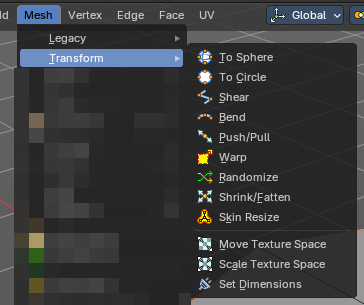
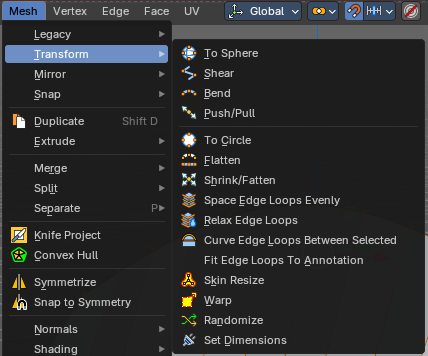
Docs 2.0: Mesh Transform menu for 5.4 (loop tools, Flatten, Fit to Annotation)
- New: Flatten, Space Edge Loops Evenly, Relax Edge Loops, Curve Edge Loops
  Between Selected, Fit Edge Loops To Annotation, each with its panel
- Sections in the 5.4 menu order; new menu picture
- Move/Scale Texture Space removed here (Object mode only now, documented there)
- To Circle panel heading fixed (said To Sphere)
- version 5.3

Claude-Session: https://claude.ai/code/session_01TZ3cKPLjkkQu7A5AvvLPrB

diff --git a/docs2/content/editors/3d-viewport/mesh/edit/header.md b/docs2/content/editors/3d-viewport/mesh/edit/header.md
@@ -1358,35 +1358,6 @@ The proportional falloff gets calculated for connected parts only.
 
 The proportional falloff gets calculated in the screen space. Depth doesn't play a role. When it's in the radius, then it gets calculated.
 
-### To Circle
-
-Transforms selected vertices into a circular arrangement.  
-Useful for reshaping loops, aligning geometry, or creating radial structures with precision.
-
-#### Usage
-
-![Usage](/docs2/images/editors/3d-viewport/header/mesh-edit-mode-mesh-menu/usage-3.png)
-
-Select the loop of mesh geometry, activate the tool. In the Last Operator panel, you can then adjust properties after the operation.
-
-#### Adjust Last Operation - To Sphere
-
-![Last Operator To Sphere](/docs2/images/editors/3d-viewport/header/mesh-edit-mode-mesh-menu/last-operator-to-sphere.png)
-
-Change the settings of **To Sphere** right after you use it, in the Adjust Last Operation panel at the bottom left of the editor.
-
-
-| Entry | What it does |
-| ------------------- | ------------------------------------------------------------------------------------------------------------------------------------------------------------------------------------------------------------- |
-| Factor | Controls the strength of the circular transformation.   – **1.000**: full circle.   – **&lt; 1.000**: partial influence, blending with original shape. |
-| Method | Defines how the circle is calculated:   – **Best Fit**: fits a circle to the selection using least-squares approximation.   – Interior Fit: Moves vertices inward toward the center of the selection. |
-| Rotation | Applies a rotational offset to the resulting circle. |
-| Radius | Sets a fixed radius for the circle. |
-| Space Evenly | Distributes vertices evenly along the circle’s perimeter.   – Enabled: uniform spacing.   – Disabled: preserves original spacing. |
-| Flatten | Controls how much the selection is flattened onto a plane before circularization.   – **1.000**: full flattening.   – **0.000**: preserves original depth variation. |
-| Lock Axis (X, Y, Z) | Constrains transformation to specific axes. Useful for maintaining symmetry or aligning with existing geometry. |
-
-
 ### Shear
 
 Shear shears the selection.
@@ -1496,53 +1467,50 @@ The proportional falloff gets calculated for connected parts only.
 
 The proportional falloff gets calculated in the screen space. Depth doesn't play a role. When it's in the radius, then it gets calculated.
 
-### Warp
+### To Circle
 
-![Warp](/docs2/images/editors/3d-viewport/header/mesh-edit-mode-mesh-menu/warp.png)
+Transforms selected vertices into a circular arrangement.  
+Useful for reshaping loops, aligning geometry, or creating radial structures with precision.
 
-Warps a mesh selection between two defined points.
+#### Usage
 
-#### Adjust Last Operation - Warp
+![Usage](/docs2/images/editors/3d-viewport/header/mesh-edit-mode-mesh-menu/usage-3.png)
 
-Change the settings of **Warp** right after you use it, in the Adjust Last Operation panel at the bottom left of the editor.
+Select the loop of mesh geometry, activate the tool. In the Last Operator panel, you can then adjust properties after the operation.
 
-![Adjust Last Operation - Warp](/docs2/images/editors/3d-viewport/transform/adjust-last-operation-warp.png)
+#### Adjust Last Operation - To Circle
 
+![Last Operator To Sphere](/docs2/images/editors/3d-viewport/header/mesh-edit-mode-mesh-menu/last-operator-to-sphere.png)
 
-| Entry | What it does |
-| ------------ | ----------------------------------- |
-| Warp Angle | The strength of the warp effect |
-| Offset Angle | An offset angle to bend side wards. |
-
-
-##### Min
-
-![Min](/docs2/images/editors/3d-viewport/header/mesh-edit-mode-mesh-menu/min.png)
-
-The start point.
-
-##### Max
-
-The end point.
-
-### Randomize
-
-This tool allows randomizes the positions of the selected vertices.
-
-#### Adjust Last Operation - Randomize
-
-![Last Operator Randomize](/docs2/images/editors/3d-viewport/context-menus/mesh-object-edit-mode-vertex-context-menu/last-operator-randomize.png)
-
-Change the settings of **Randomize** right after you use it, in the Adjust Last Operation panel at the bottom left of the editor.
+Change the settings of **To Circle** right after you use it, in the Adjust Last Operation panel at the bottom left of the editor.
 
 
 | Entry | What it does |
-| ----------- | ------------------------------------------ |
-| Amount | Adjust the amount. |
-| Uniform | The uniform offset distance. |
-| Normal | Align the offset direction to the normals. |
-| Random Seed | The seed value for randomization. |
+| ------------------- | ------------------------------------------------------------------------------------------------------------------------------------------------------------------------------------------------------------- |
+| Factor | Controls the strength of the circular transformation.   – **1.000**: full circle.   – **&lt; 1.000**: partial influence, blending with original shape. |
+| Method | Defines how the circle is calculated:   – **Best Fit**: fits a circle to the selection using least-squares approximation.   – Interior Fit: Moves vertices inward toward the center of the selection. |
+| Rotation | Applies a rotational offset to the resulting circle. |
+| Radius | Sets a fixed radius for the circle. |
+| Space Evenly | Distributes vertices evenly along the circle’s perimeter.   – Enabled: uniform spacing.   – Disabled: preserves original spacing. |
+| Flatten | Controls how much the selection is flattened onto a plane before circularization.   – **1.000**: full flattening.   – **0.000**: preserves original depth variation. |
+| Lock Axis (X, Y, Z) | Constrains transformation to specific axes. Useful for maintaining symmetry or aligning with existing geometry. |
 
+
+### Flatten
+
+Moves the selected vertices onto one flat plane. Use it to level a bumpy area, for example the base of a model or a wall that should be flat. The plane is found from the selection itself, from its face normals, or from the view.
+
+#### Adjust Last Operation - Flatten
+
+Change the settings of **Flatten** right after you use it, in the Adjust Last Operation panel at the bottom left of the editor.
+
+![Adjust Last Operation - Flatten](/docs2/images/editors/3d-viewport/mesh/edit/adjust-last-operation-flatten.png)
+
+| Entry | What it does |
+| --- | --- |
+| Factor | How far the vertices move onto the plane. 1 makes them fully flat. |
+| Method | The plane to flatten on. **Best Fit** uses the plane that fits the selection best. **Normal** uses the average of the face normals. **View** uses a plane that faces the view. |
+| Lock X, Y, Z | Keeps the vertices from moving along that axis. |
 
 ### Shrink/Fatten
 
@@ -1585,6 +1553,74 @@ The proportional falloff gets calculated for connected parts only.
 ###### Projected(2D)
 
 The proportional falloff gets calculated in the screen space. Depth doesn't play a role. When it's in the radius, then it gets calculated.
+
+### Space Edge Loops Evenly
+
+Moves the vertices of the selected edge loops so they are the same distance apart along the loop. Use it to clean up uneven spacing after cutting or sculpting. The shape of the loop stays, only the spacing changes.
+
+#### Adjust Last Operation - Space Edge Loops Evenly
+
+Change the settings of **Space Edge Loops Evenly** right after you use it, in the Adjust Last Operation panel at the bottom left of the editor.
+
+![Adjust Last Operation - Space Edge Loops Evenly](/docs2/images/editors/3d-viewport/mesh/edit/adjust-last-operation-space-edge-loops-evenly.png)
+
+| Entry | What it does |
+| --- | --- |
+| Factor | How much of the effect to apply. 1 is fully even. |
+| Interpolation | **Cubic** follows a smooth curve through the vertices. **Linear** keeps the vertices on the existing edges. |
+| Lock X, Y, Z | Keeps the vertices from moving along that axis. |
+
+### Relax Edge Loops
+
+Smooths the selected edge loops so they have fewer bumps and zigzags, like a rope that is pulled loose. Use it to clean up a wobbly loop without moving it by hand. Each iteration smooths the loop a bit more.
+
+#### Adjust Last Operation - Relax Edge Loops
+
+Change the settings of **Relax Edge Loops** right after you use it, in the Adjust Last Operation panel at the bottom left of the editor.
+
+![Adjust Last Operation - Relax Edge Loops](/docs2/images/editors/3d-viewport/mesh/edit/adjust-last-operation-relax-edge-loops.png)
+
+| Entry | What it does |
+| --- | --- |
+| Iterations | How many times the loop is relaxed. More iterations give a smoother loop. |
+| Space Evenly | Also spaces the vertices at the same distance along the loop. |
+| Interpolation | **Cubic** gives smooth results. **Linear** relaxes with straight lines between the vertices. |
+
+### Curve Edge Loops Between Selected
+
+Bends edge loops into a smooth curve that passes through the selected vertices. Use it to shape a row of edges into an arc, for example the rim of a bowl, by selecting a few vertices as guides. The unselected parts of each loop follow the curve.
+
+#### Adjust Last Operation - Curve Edge Loops Between Selected
+
+Change the settings of **Curve Edge Loops Between Selected** right after you use it, in the Adjust Last Operation panel at the bottom left of the editor.
+
+![Adjust Last Operation - Curve Edge Loops Between Selected](/docs2/images/editors/3d-viewport/mesh/edit/adjust-last-operation-curve-edge-loops-between-selected.png)
+
+| Entry | What it does |
+| --- | --- |
+| Factor | How much the loops are curved. 1 follows the curve fully. |
+| Clamp Elevation | Limits how the vertices move. **None** has no limit. **Only Raise** only moves them outward. **Only Lower** only moves them inward. |
+| Extend Loop | Also curves the parts of the loop beyond the selected vertices. |
+| Space Evenly | Spaces the vertices at the same distance along the curve. |
+| Lock X, Y, Z | Keeps the vertices from moving along that axis. |
+| Interpolation | **Cubic** gives a smooth curve. **Linear** is simpler and faster. |
+
+### Fit Edge Loops To Annotation
+
+Moves the selected vertices onto the active annotation stroke. Use it to shape a loop by drawing it: draw an annotation stroke where the edges should go, select the loop, then run the tool. The vertices are spread along the stroke.
+
+#### Adjust Last Operation - Fit Edge Loops To Annotation
+
+Change the settings of **Fit Edge Loops To Annotation** right after you use it, in the Adjust Last Operation panel at the bottom left of the editor.
+
+![Adjust Last Operation - Fit Edge Loops To Annotation](/docs2/images/editors/3d-viewport/mesh/edit/adjust-last-operation-fit-edge-loops-to-annotation.png)
+
+| Entry | What it does |
+| --- | --- |
+| Factor | How far the vertices move onto the stroke. 1 moves them fully. |
+| Method | How the vertices are placed. **Spread** uses the whole stroke and keeps the spacing between the vertices. **Spread Evenly** uses the whole stroke and spaces the vertices evenly. **Project** moves each vertex to the stroke along its normal; the stroke must be close to the mesh, or nothing happens. |
+| Delete Strokes | Removes the annotation stroke after it is used. |
+| Lock X, Y, Z | Keeps the vertices from moving along that axis. |
 
 ### Skin Resize
 
@@ -1636,123 +1672,53 @@ The proportional falloff gets calculated for connected parts only.
 
 The proportional falloff gets calculated in the screen space. Depth doesn't play a role. When it's in the radius, then it gets calculated.
 
-### Move Texture Space
+### Warp
 
-![Move Texture Space](/docs2/images/editors/3d-viewport/header/mesh-edit-mode-mesh-menu/move-texture-space.png)
+![Warp](/docs2/images/editors/3d-viewport/header/mesh-edit-mode-mesh-menu/warp.png)
 
-![Move Texture Space](/docs2/images/editors/3d-viewport/header/mesh-edit-mode-mesh-menu/move-texture-space-2.png)
+Warps a mesh selection between two defined points.
 
-This tool relies at the move tool. With the difference that it moves the texture space instead of the object. It has also a very special use case, and just works with a material with a Texture Coordinate / Generated node. And requires to have the shading at Material or Rendered to see a result in the viewport.
+#### Adjust Last Operation - Warp
 
-![Move Texture Space](/docs2/images/editors/3d-viewport/header/mesh-edit-mode-mesh-menu/move-texture-space-3.png)
+Change the settings of **Warp** right after you use it, in the Adjust Last Operation panel at the bottom left of the editor.
 
-In the viewport you will see the UV cage in black color. In the header you will see the values for the current position of the UV cage.
+![Adjust Last Operation - Warp](/docs2/images/editors/3d-viewport/transform/adjust-last-operation-warp.png)
 
-Note that once done and applied, there is no way to reset the UV cage back to zero. When you repeat the operation, then the values will start at 0 again. Even when the UV cage is already offset.
 
-![Move Texture Space](/docs2/images/editors/3d-viewport/header/mesh-edit-mode-mesh-menu/move-texture-space-4.png)
+| Entry | What it does |
+| ------------ | ----------------------------------- |
+| Warp Angle | The strength of the warp effect |
+| Offset Angle | An offset angle to bend side wards. |
 
-#### Adjust Last Operation - Move
 
-![Last Operator Move](/docs2/images/editors/3d-viewport/header/object-menu/last-operator-move.png)
+##### Min
 
-Change the settings of **Move** right after you use it, in the Adjust Last Operation panel at the bottom left of the editor.
+![Min](/docs2/images/editors/3d-viewport/header/mesh-edit-mode-mesh-menu/min.png)
 
-##### Move
+The start point.
 
-Adjust in which directions you want to transform.
+##### Max
 
-##### Orientation
+The end point.
 
-![Orientation](/docs2/images/editors/3d-viewport/header/object-menu/orientation.png)
+### Randomize
 
-Choose the orientation.
+This tool allows randomizes the positions of the selected vertices.
 
-##### Mirror Editing
+#### Adjust Last Operation - Randomize
 
-Enable mirror editing.
+![Last Operator Randomize](/docs2/images/editors/3d-viewport/context-menus/mesh-object-edit-mode-vertex-context-menu/last-operator-randomize.png)
 
-##### Proportional editing
+Change the settings of **Randomize** right after you use it, in the Adjust Last Operation panel at the bottom left of the editor.
 
-![Proportional editing](/docs2/images/editors/3d-viewport/header/object-menu/proportional-editing.png)
 
-Enables proportional editing. Activating proportional editing reveals further settings.
+| Entry | What it does |
+| ----------- | ------------------------------------------ |
+| Amount | Adjust the amount. |
+| Uniform | The uniform offset distance. |
+| Normal | Align the offset direction to the normals. |
+| Random Seed | The seed value for randomization. |
 
-###### Proportional Falloff
-
-Adjust the falloff methods.
-
-###### Proportional Size
-
-See and adjust the falloff radius.
-
-###### Connected
-
-The proportional falloff gets calculated for connected parts only.
-
-###### Projected(2D)
-
-The proportional falloff gets calculated in the screen space. Depth doesn't play a role. When it's in the radius, then it gets calculated.
-
-### Scale Texture Space
-
-![Scale Texture Space](/docs2/images/editors/3d-viewport/header/mesh-edit-mode-mesh-menu/scale-texture-space.png)
-
-Scale Texture space is similar to the Move texture Space. With the only difference that it scales the UV space instead of moving it.
-
-![Scale Texture Space](/docs2/images/editors/3d-viewport/header/mesh-edit-mode-mesh-menu/move-texture-space-2.png)
-
-This tool relies at the scale tool. With the difference that it scales the texture space instead of the object. It has also a very special use case, and just works with a material with a Texture Coordinate / Generated node. And requires to have the shading at Material or Rendered to see a result in the viewport.
-
-![Scale Texture Space](/docs2/images/editors/3d-viewport/header/mesh-edit-mode-mesh-menu/move-texture-space-3.png)
-
-In the viewport you will see the UV cage in black color. In the header you will see the values for the current position of the UV cage.
-
-Note that once done and applied, there is no way to reset the UV cage back to zero. When you repeat the operation, then the values will start at 0 again. Even when the UV cage is already offset.
-
-![Scale Texture Space](/docs2/images/editors/3d-viewport/header/mesh-edit-mode-mesh-menu/scale-texture-space-2.png)
-
-#### Adjust Last Operation - Resize
-
-![Last Operator Resize](/docs2/images/editors/3d-viewport/header/object-menu/last-operator-resize.png)
-
-Change the settings of **Resize** right after you use it, in the Adjust Last Operation panel at the bottom left of the editor.
-
-##### Scale
-
-Adjust in which directions you want to transform.
-
-##### Orientation
-
-![Orientation](/docs2/images/editors/3d-viewport/header/object-menu/orientation.png)
-
-Choose the orientation.
-
-##### Mirror Editing
-
-Enable mirror editing.
-
-##### Proportional editing
-
-![Proportional editing](/docs2/images/editors/3d-viewport/header/object-menu/proportional-editing.png)
-
-Enables proportional editing. Activating proportional editing reveals further settings.
-
-###### Proportional Falloff
-
-Adjust the falloff methods.
-
-###### Proportional Size
-
-See and adjust the falloff radius.
-
-###### Connected
-
-The proportional falloff gets calculated for connected parts only.
-
-###### Projected(2D)
-
-The proportional falloff gets calculated in the screen space. Depth doesn't play a role. When it's in the radius, then it gets calculated.
 
 ### Set Dimensions
 
